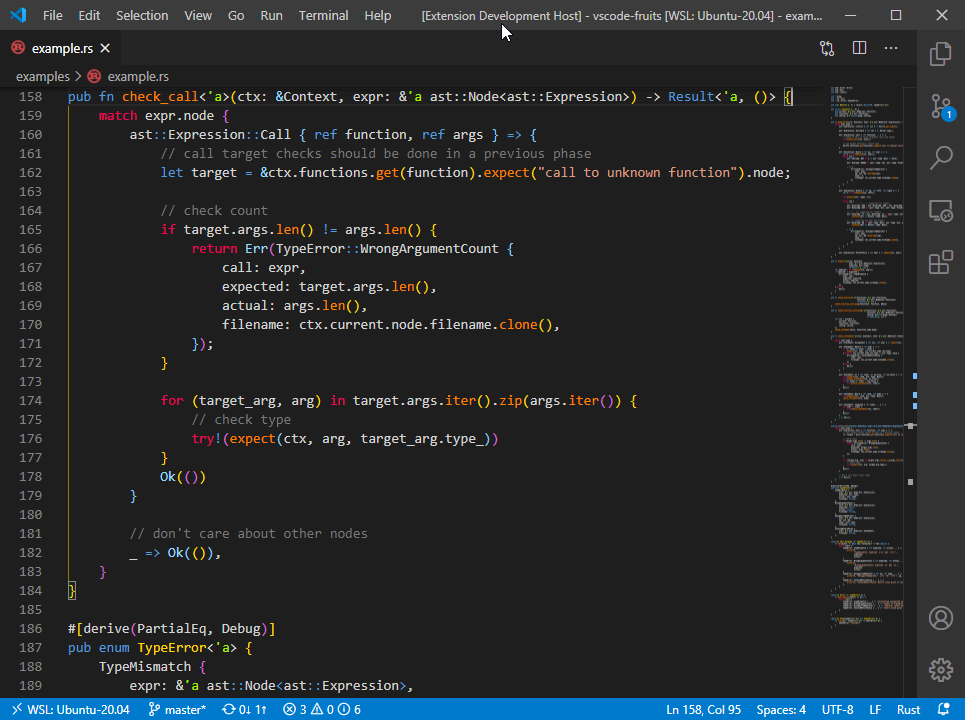
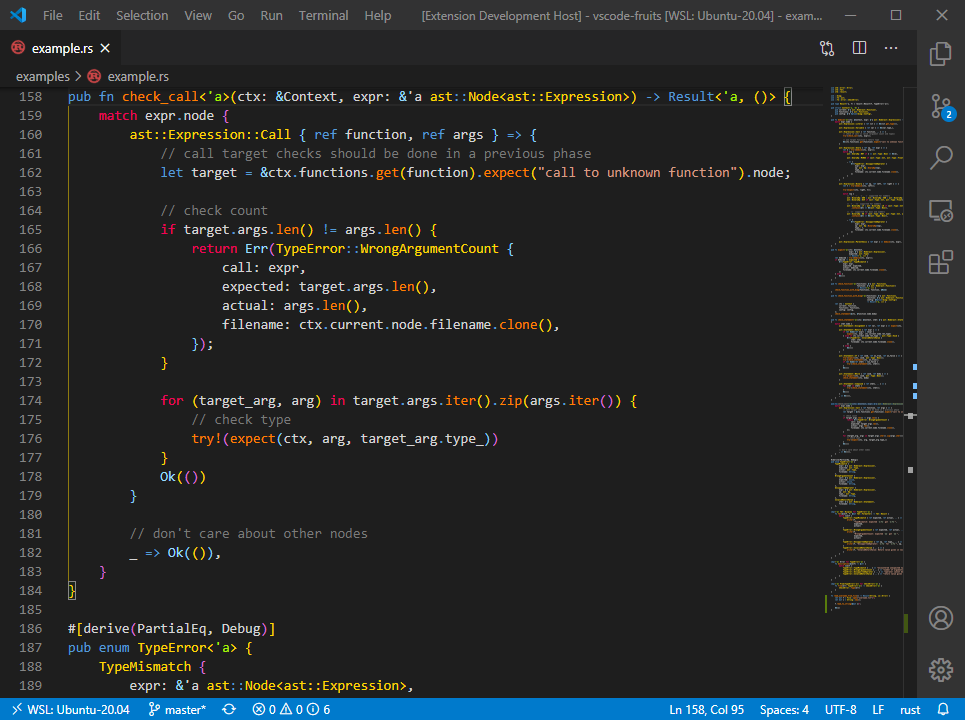
Rust: Highlight error-propagation operator as control

diff --git a/examples/example.rs b/examples/example.rs
@@ -250,3 +250,12 @@ impl<'a> From<TypeError<'a>> for CheckError<'a> {
         CheckError::Type(err)
     }
 }
+
+fn read_username_from_file() -> Result<String, io::Error> {
+    let mut f = File::open("username.txt")?;
+    let mut s = String::new();
+
+    f.read_to_string(&mut s)?;
+
+    Ok(s)
+}

diff --git a/README.md b/README.md
@@ -24,8 +24,9 @@ It builds upon the following principles:
 
 ## Considerations
 
-- Using [Bracket Pair Colorizer 2](https://marketplace.visualstudio.com/items?itemName=CoenraadS.bracket-pair-colorizer-2)
-- Changing variable coloring to adjust the overall color tone:
+- Use [Bracket Pair Colorizer 2](https://marketplace.visualstudio.com/items?itemName=CoenraadS.bracket-pair-colorizer-2)
+- Use [vscode-rust-syntax](https://marketplace.visualstudio.com/items?itemName=dunstontc.vscode-rust-syntax)
+- Change variable coloring to adjust the overall color tone:
   ```
   "editor.tokenColorCustomizations": {
       "variables": "#BDB76B",  // default Visual Assist
